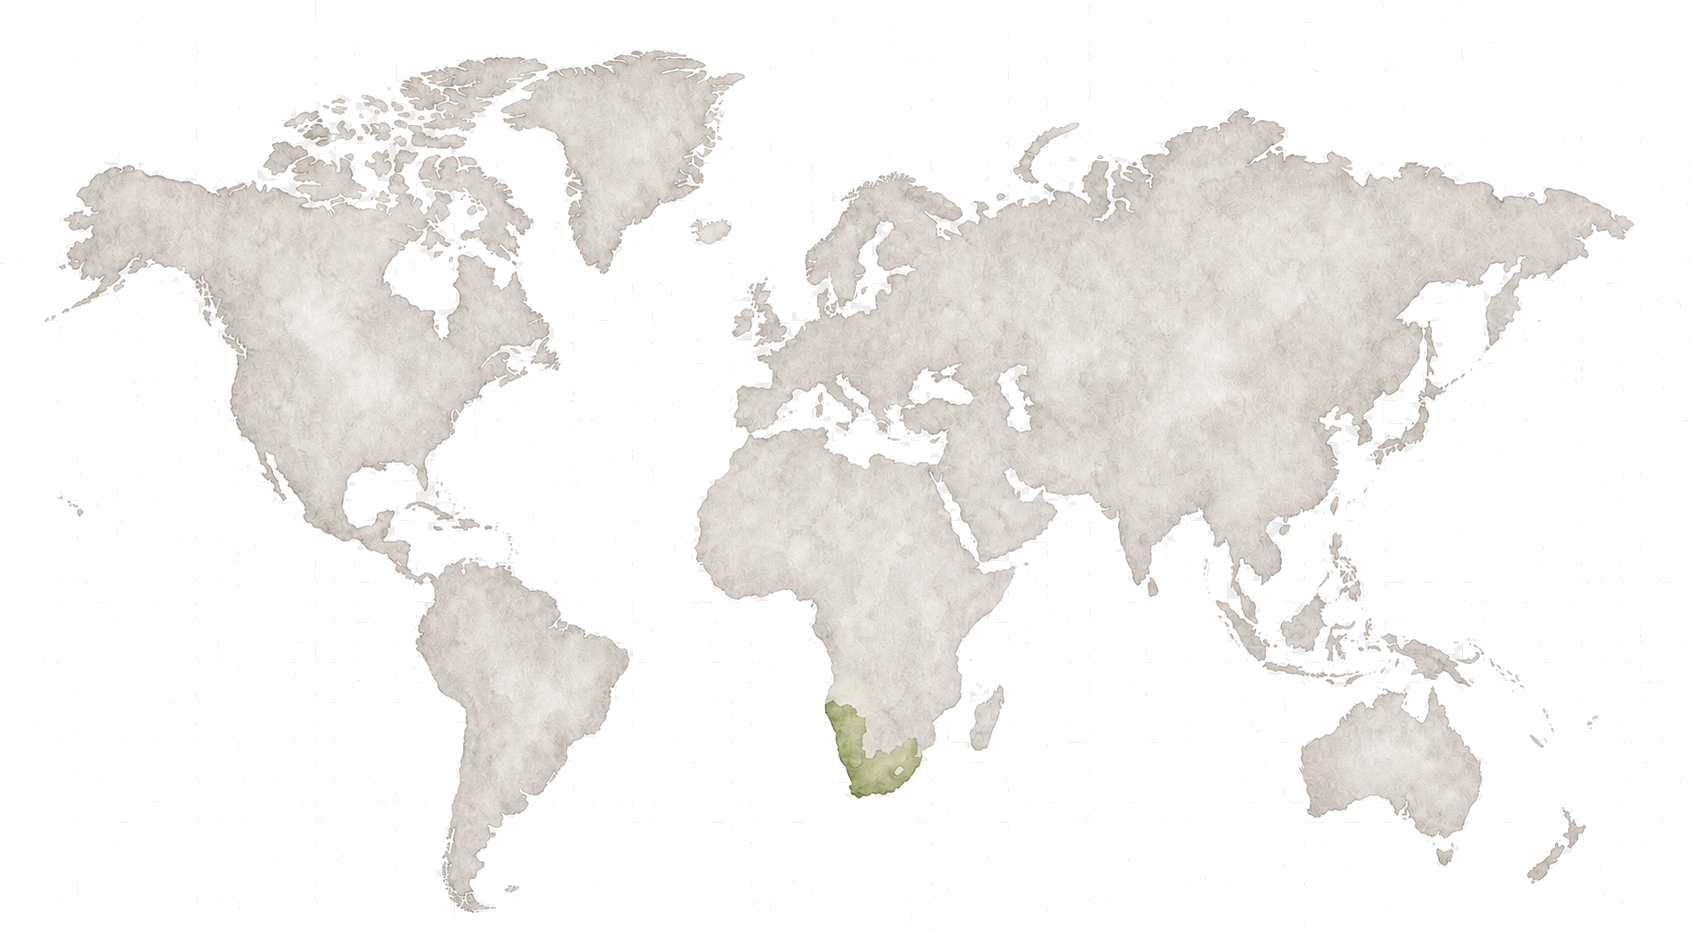
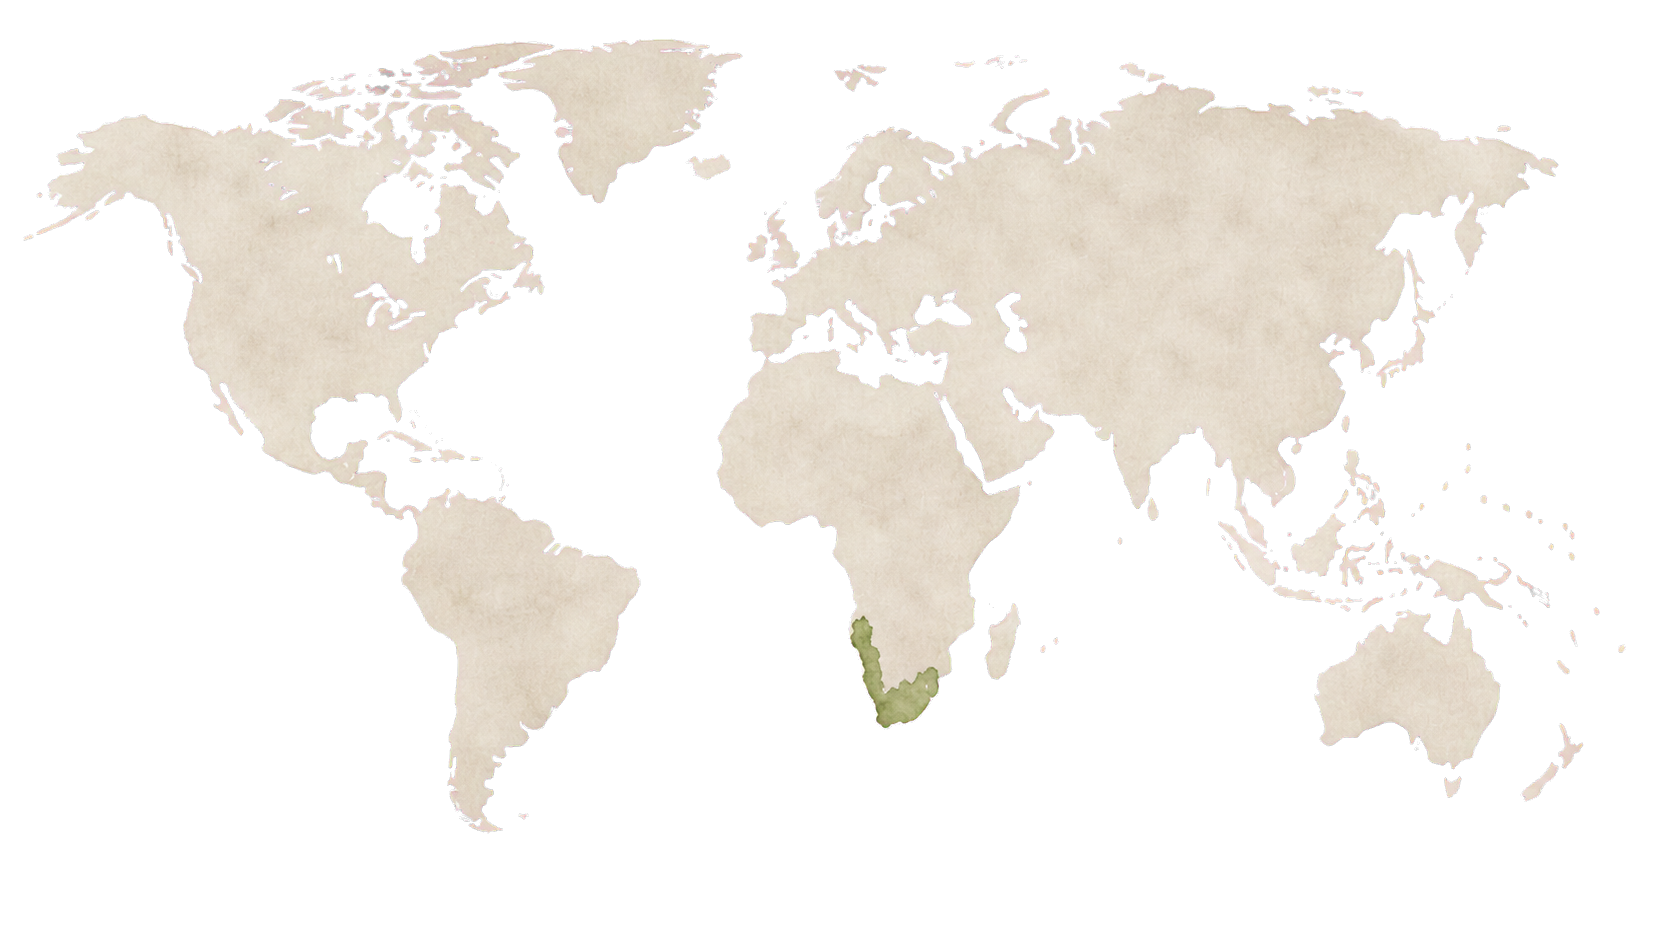
fix

diff --git a/src/pages/Home/ui/CategoryHero/CategoryHero.tsx b/src/pages/Home/ui/CategoryHero/CategoryHero.tsx
@@ -79,9 +79,9 @@ export const CategoryHero = ({ closeButtonRef, data, onClose, titleId }: Categor
       </Button>
 
       <Box
-        background="rgba(255, 253, 247, 0.55)"
+        background="rgba(255, 253, 247, 0.85)"
         borderRadius="1000px"
-        boxShadow="0 0 72px 58px rgba(255, 253, 247, 0.6)"
+        boxShadow="0 0 72px 58px rgba(255, 253, 247, 0.9)"
         maxWidth="100%"
         position="relative"
         w="450px"